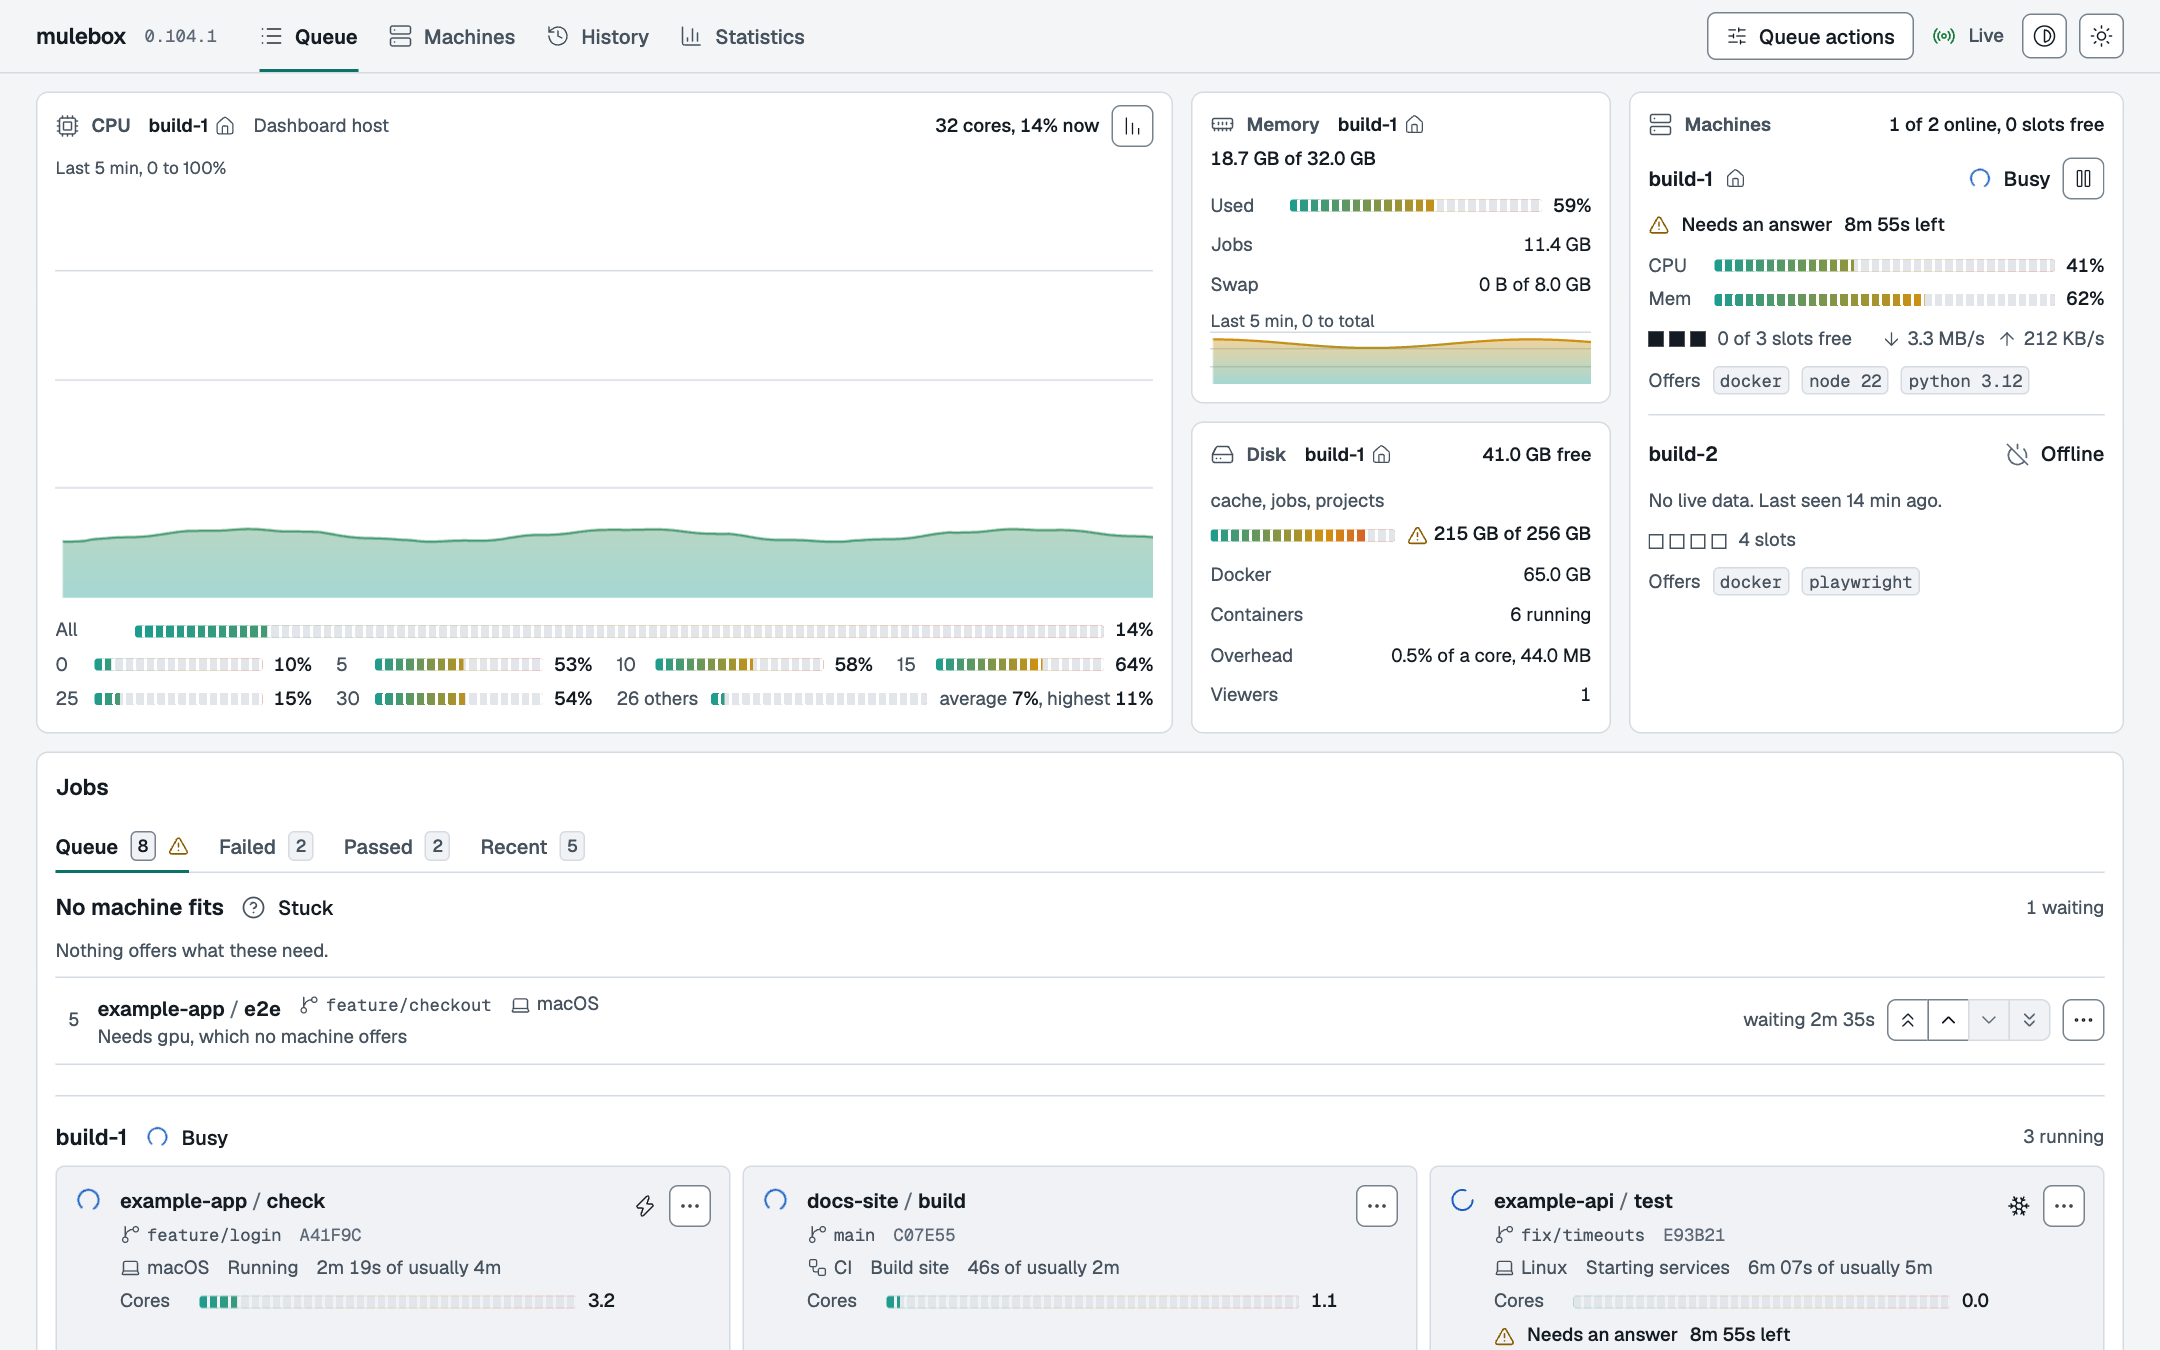
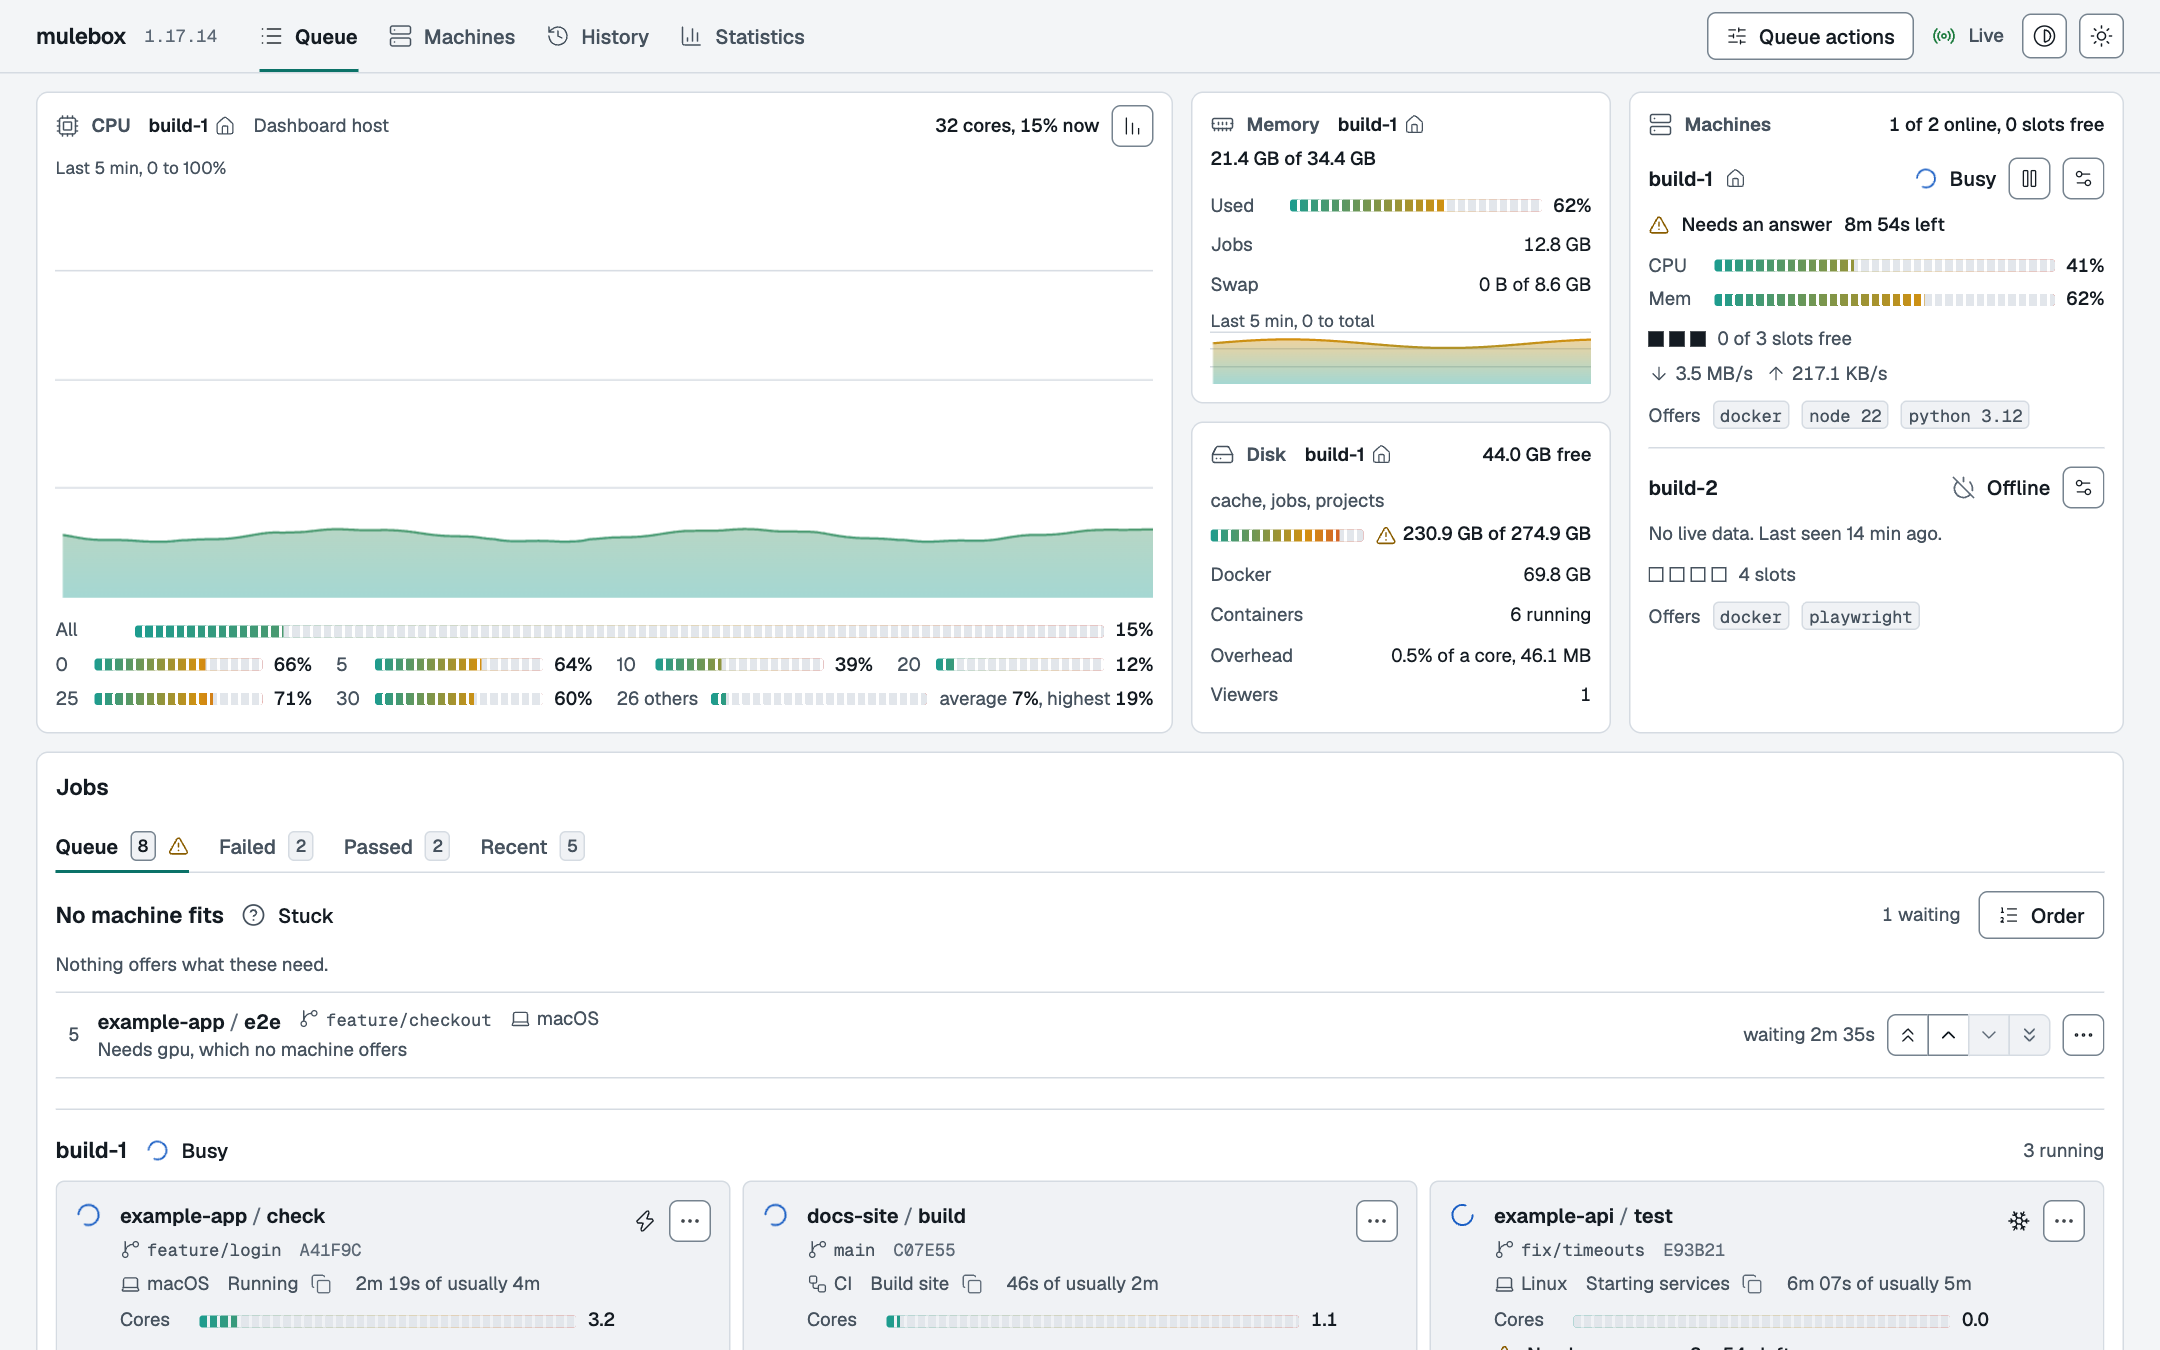
1.17.15: README brought up to date, with new screenshots
Node settings, order rules, download meters, commit statuses, isolated
runners for public repositories, macOS nodes and Apple builds; every
picture taken again, three new ones.

diff --git a/tools/screenshots.py b/tools/screenshots.py
@@ -56,6 +56,13 @@ SHOTS = [
     Shot("cpu-compact-light", "#/", "light", env={**CLEAN, "MULEBOX_MOCK_CORES": "32"},
          prefs={"mulebox-cpu-view": "compact"}),
     Shot("phone-dark", "#/", width=390, height=844, env=CLEAN),
+    Shot("node-settings-dark", "#/", env=CLEAN,
+         script="document.querySelector('[aria-label=\"Settings of build-1\"]').click()"),
+    Shot("order-light", "#/", "light", height=1700, env={**CLEAN, "MULEBOX_MOCK_SCENE": "order"},
+         script="[...document.querySelectorAll('button')].find(b => b.textContent.startsWith('Order')).click()"),
+    Shot("downloads-dark", "#/", height=700, env={**CLEAN, "MULEBOX_MOCK_SCENE": "downloads"},
+         script="[...document.querySelectorAll('h1,h2,h3')].find(h => h.textContent.trim() === 'Jobs')"
+                "?.scrollIntoView(); window.scrollBy(0, -88)"),
     Shot("sign-in-light", "page:login.html", "light", width=1000, height=640, env=CLEAN, wait=2.0),
     Shot("sign-in-dark", "page:login.html", width=1000, height=640, env=CLEAN, wait=2.0),
     Shot("design-system-light", "file:design-system/specimen.html", "light", height=1100, wait=2.0,

diff --git a/README.md b/README.md
@@ -37,16 +37,19 @@ machine, here and now, and it takes your CI along in the same line.
   agents' jobs, so a node never runs more than it has room for.
   ([GitHub Actions](#github-actions-on-the-same-machines))
 - **You see and steer everything.** A live dashboard has logs, resource graphs, stages as a
-  waterfall, a CI run's steps as they happen, and job minutes. From it or the CLI you can freeze,
-  boost, move or cancel a job, and pause a machine. ([The dashboard](#the-dashboard-1),
-  [You steer](#you-steer))
+  waterfall, a CI run's steps as they happen, download progress, and job minutes. From it or the
+  CLI you can freeze, boost, move or cancel a job, pause a machine, set a node's slots, and set
+  rules for the order of the line. ([The dashboard](#the-dashboard-1), [You steer](#you-steer))
+- **A pass you can require on GitHub.** `check` can post its result as a commit status on the
+  pushed commit, so a pull request shows it. ([For agents](#for-agents))
 - **Upgrades that wait their turn.** An upgrade queues like a job or waits until the node is idle, so
   no running job is cut short. ([You steer](#you-steer))
 
 ## Install
 
 You need a Linux machine with systemd, git and Python 3.12 or newer, which your dev machine reaches
-over ssh with a key, at an address that does not change (below).
+over ssh with a key, at an address that does not change (below). A Mac can be a node too; that is
+new and not yet run on a real Mac node ([A Mac as a node](docs/install.md#a-mac-as-a-node)).
 
 ### Give every machine a fixed address
 
@@ -154,6 +157,13 @@ theme and follows the system's by default.
 | A GitHub Actions run, step by step | Every machine at a glance |
 | ![History with search and filters](docs/images/history-light.png) | ![How long jobs ran, today and since the first job](docs/images/statistics-dark.png) |
 | History, searchable | Job minutes, by kind, project and machine |
+| ![A node's settings: slots and priority, each with mulebox's suggestion beside yours](docs/images/node-settings-dark.png) | ![The Order panel: the rules for the order of the line, each waiting row saying why it stands where it does](docs/images/order-light.png) |
+| A node's slots and priority, with the suggestion | Rules for the order of the line |
+
+While a job or a CI run downloads packages or a cache, its card shows how much has come and how
+fast, and warns when no bytes arrive for a while:
+
+![Running jobs and GitHub runs with their download meters: a known total, an open track and a stalled download](docs/images/downloads-dark.png)
 
 A machine with many cores can show its busiest cores and one line for the rest (compact view,
 left). On a phone the page stacks into one column (right).
@@ -224,6 +234,9 @@ All of it, step by step: [Dashboard on the LAN](docs/install.md#dashboard-on-the
 - **Written for agents.** `mulebox contract` tells an agent how this project works through mulebox.
   The Claude Code skill teaches it the rest; `mulebox setup` installs it, and an agent whose skill is
   out of date is told so and updates it.
+- **A result on the pull request.** With `github_status: true` in `.mulebox.yml`, `check` on an
+  exact pushed commit posts its result as the commit status `mulebox/<job>`, through the dev
+  machine's own `gh`, so it can be a required check. Nothing on GitHub reaches in to the node.
 - **Problems reported safely.** `mulebox feedback draft` writes a GitHub issue with the job's ids,
   stages and log lines, scrubbed of addresses, names and secrets; `post` files it once you read it.
 
@@ -244,6 +257,8 @@ All of it, step by step: [Dashboard on the LAN](docs/install.md#dashboard-on-the
 - **Get ready ahead of time.** `mulebox warm` fetches toolchains, images and caches and runs the
   installs, with no command.
 - **Quiet logs.** Image download progress is folded into one line, with the bytes on the stage.
+- **Downloads you can see.** A package install or a CI cache restore shows its bytes, total and
+  speed on the job's card and in `mulebox status`, and a download that stalls says so.
 - **How long it usually takes.** Each job and each stage shows its usual length from past passed
   runs, beside the time so far.
 
@@ -258,6 +273,10 @@ All of it, step by step: [Dashboard on the LAN](docs/install.md#dashboard-on-the
 - **Browser tests.** Playwright against the job's containers, with browsers kept for the next job.
 - **Several jobs per project**, each with its own command, setup, ports and containers or none, and
   `env:` values that build on each other.
+- **Apple platforms** on a Mac node (new, not yet run on a real one): a job pins an Xcode version,
+  gets a simulator of its own, removed on every outcome, and caches for SwiftPM and CocoaPods;
+  `init` writes the job for an Xcode project or a Swift package
+  ([Apple builds](docs/install.md#apple-builds-on-a-mac-node)).
 - **`mulebox run -- <cmd>`** runs any command on the node; `--in <service>` runs it in a compose
   service, `--take <path>` brings a changed file, such as a lockfile, back to the dev machine.
 
@@ -296,10 +315,18 @@ From the CLI or the dashboard, with no sign-in needed through the tunnel:
 - **A job**: pause a waiting one (it keeps its place), freeze a running one with its containers and
   resume it where it stopped, boost it (the machine's CPU and disk first, nothing new starts beside
   it), move it to the front, up, down or to the end, cancel it.
+- **The order of the line**: rules you set once, in the dashboard's Order panel or with
+  `mulebox queue rules`. Levels for a project, a branch (such as `main`), GitHub runs or one
+  workflow; aging, so a job that waited long moves up; shortest first; and fair turns, so one
+  project's burst does not hold back another's single job. Every waiting job says why it stands
+  where it does. All off by default, which keeps the order of arrival.
 - **A machine**: pause (drain) it so it finishes what runs and takes nothing new, resume it, or remove
-  it.
+  it. Set its slots and priority from the dashboard or `mulebox machine config`, beside a
+  suggestion from its cores and memory; the change reaches its `node.toml` and counts from the
+  next job, with no restart. A `preferred` node takes jobs first, a `fallback` one only when the
+  others are full.
 - **A project**: pause all its jobs and CI runs, for a set time or until resumed (`mulebox project
-  pause`).
+  pause`), or give it a level in line (`mulebox project priority`).
 - **Everything at once**: the dashboard's Queue actions pause or resume every machine, and freeze or
   resume every running job.
 - **Upgrades in line**: `mulebox setup <node> --queued` waits its turn like a job, next by default or
@@ -318,7 +345,10 @@ From the CLI or the dashboard, with no sign-in needed through the tunnel:
 - **Tabs**: Queue, Failed, Passed and Recent, with live counts.
 - **History** with search and filters you can share as a link, and **Statistics**: job minutes today,
   by day and since the first job, by kind, project, source and machine (also `mulebox stats`).
-- **Machines page**: every node with its state, load, network, slots, version and last contact.
+- **Machines page**: every node with its state, load, network, slots, version and last contact,
+  and a settings window per node for its slots and priority.
+- **Order panel**: the rules for the order of the line, set and saved from the page.
+- **Download meters** on a job's card: bytes, total and speed, and a warning when one stalls.
 - **Out of step**: a strip says when a dev machine, a worker or a skill runs another version, with the fix.
 - **Light and dark** themes and two meter styles, remembered per browser, and a layout that works on
   a phone.
@@ -332,6 +362,9 @@ From the CLI or the dashboard, with no sign-in needed through the tunnel:
   offers (Docker, Playwright, toolchains), writes the dev machine's config and proves it with a first job.
 - **More nodes**: `mulebox setup <node> --worker-of <coordinator>` adds a worker, with a key that can
   only ask for work. Jobs go to a node that has what they need.
+- **Linux and macOS**: services run under systemd on Linux and launchd on a Mac, managed the same
+  way on both (`mulebox service status|restart|logs`). macOS nodes are new and not yet run on a real
+  Mac node.
 - **Survives restarts**: services come back by themselves after a reboot; a running job ends as
   `interrupted` (exit 75) and is not run again by itself, and waiting jobs run.
 - **On your own machines**: jobs travel over ssh to machines you own; no cloud service, no port open
@@ -380,7 +413,9 @@ command prints. The ones you and your agents use:
 | `mulebox pause <id>`, `resume <id>` | hold a waiting job, or freeze a running one, and let it go again |
 | `mulebox first`, `up`, `down`, `last <id>` | move a waiting job in line |
 | `mulebox boost <id>`, `normal <id>` | give a job the machine first, and end that |
+| `mulebox queue rules` | show or set the rules for the order of the line |
 | `mulebox project pause`, `resume`, `paused` | hold all of a project's jobs and CI runs for a while |
+| `mulebox project priority <project> [level]` | a project's level in line: low, normal, high |
 | `mulebox project clean`, `reset` | remove old branch folders, or a project's whole folder, on the node |
 
 **Machines and setup**:
@@ -389,9 +424,11 @@ command prints. The ones you and your agents use:
 | --- | --- |
 | `mulebox setup <node>` | install or upgrade mulebox on a node from the dev machine; `--queued` waits its turn in line, `--worker-of <coordinator>` adds a worker |
 | `mulebox machine list`, `drain`, `resume`, `remove` | every node, online or not; stop one taking jobs, bring it back, forget it |
+| `mulebox machine config <node>` | a node's slots and priority, applied from its next job |
+| `mulebox service status`, `restart`, `logs` | on a node: mulebox's own services, systemd or launchd |
 | `mulebox dashboard open` | the dashboard in your browser, through an ssh tunnel |
 | `mulebox dashboard password`, `firewall`, `cert` | on the node: sign-in, firewall and HTTPS for `lan` mode |
-| `mulebox runner register`, `unregister` | add or remove a GitHub Actions runner for a private repository |
+| `mulebox runner register`, `unregister` | add or remove a GitHub Actions runner; `--isolated` for a fresh container per job |
 | `mulebox skill install`, `update`, `status` | the agent skill in your Claude config folders |
 | `mulebox feedback draft`, `post` | report a problem as a GitHub issue, scrubbed of private data first |
 | `mulebox version` | this mulebox's version |
@@ -437,8 +474,9 @@ at it: "read mulebox's docs/agents.md and set this project up".
 
 mulebox is for one owner and the projects that owner trusts. A job runs as the node's user, with
 Docker, so it is not a sandbox: read the [security model](docs/install.md#security-model) before
-pointing it at a machine that holds anything else. mulebox attaches GitHub runners to private
-repositories only ([why](#github-actions-on-the-same-machines)).
+pointing it at a machine that holds anything else. A plain GitHub runner takes private repositories
+only; a public one needs an isolated runner, a fresh confined container per job
+([why](#github-actions-on-the-same-machines)).
 
 ## Development
 

diff --git a/PROJECT_LOG.md b/PROJECT_LOG.md
@@ -8,6 +8,10 @@ Entry format:
     ## <version> - <YYYY-MM-DD> - <patch|minor|major>
     - what changed and why (one line each)
 
+## 1.17.15 - 2026-11-13 - patch
+- README brought up to date with what came since 1.6.0 (the user's ask): a node's settings window and priority, live reload of node.toml, rules for the order of the line (Order panel, `mulebox queue rules`, `mulebox project priority`), fair turns, download meters, `github_status` commit statuses, isolated runners for public repositories (the Security section said private only), macOS nodes and Apple builds (marked as new and not yet run on a real Mac node), `mulebox service` and `mulebox machine config` in the command tables.
+- New pictures from the stand-in data: `node-settings-dark.png`, `order-light.png`, `downloads-dark.png`; every other picture taken again on 1.17.14. `tools/screenshots.py` gains the three shots (a script click opens the window and the panel; the downloads shot scrolls to the Jobs box). No product code changed.
+
 ## 1.17.14 - 2026-11-13 - patch
 - Roadmap M24.6 done: a real pull request (a throwaway draft of this repository) showed the commit statuses from real `mulebox check` runs with `github_status: true`, `mulebox/check` passed and `mulebox/broken` (a job `false`) failed (exit 1), both on the pushed commit, posted by the dev machine's `gh`. The PR was closed and its branch, CI run, worktree and node project tree removed. Docs only.
 
